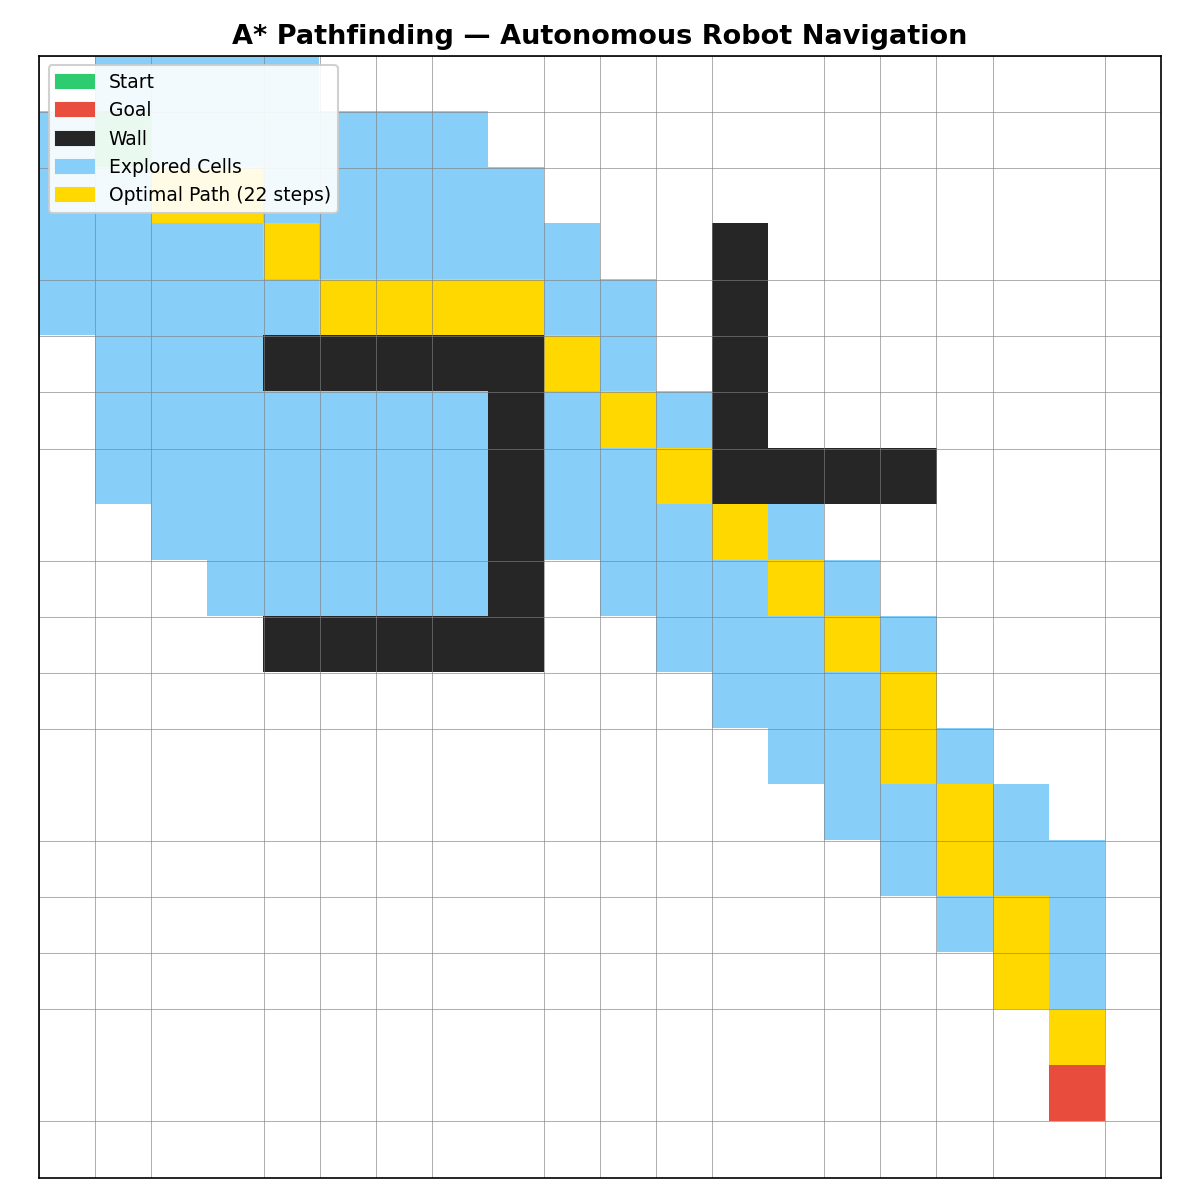
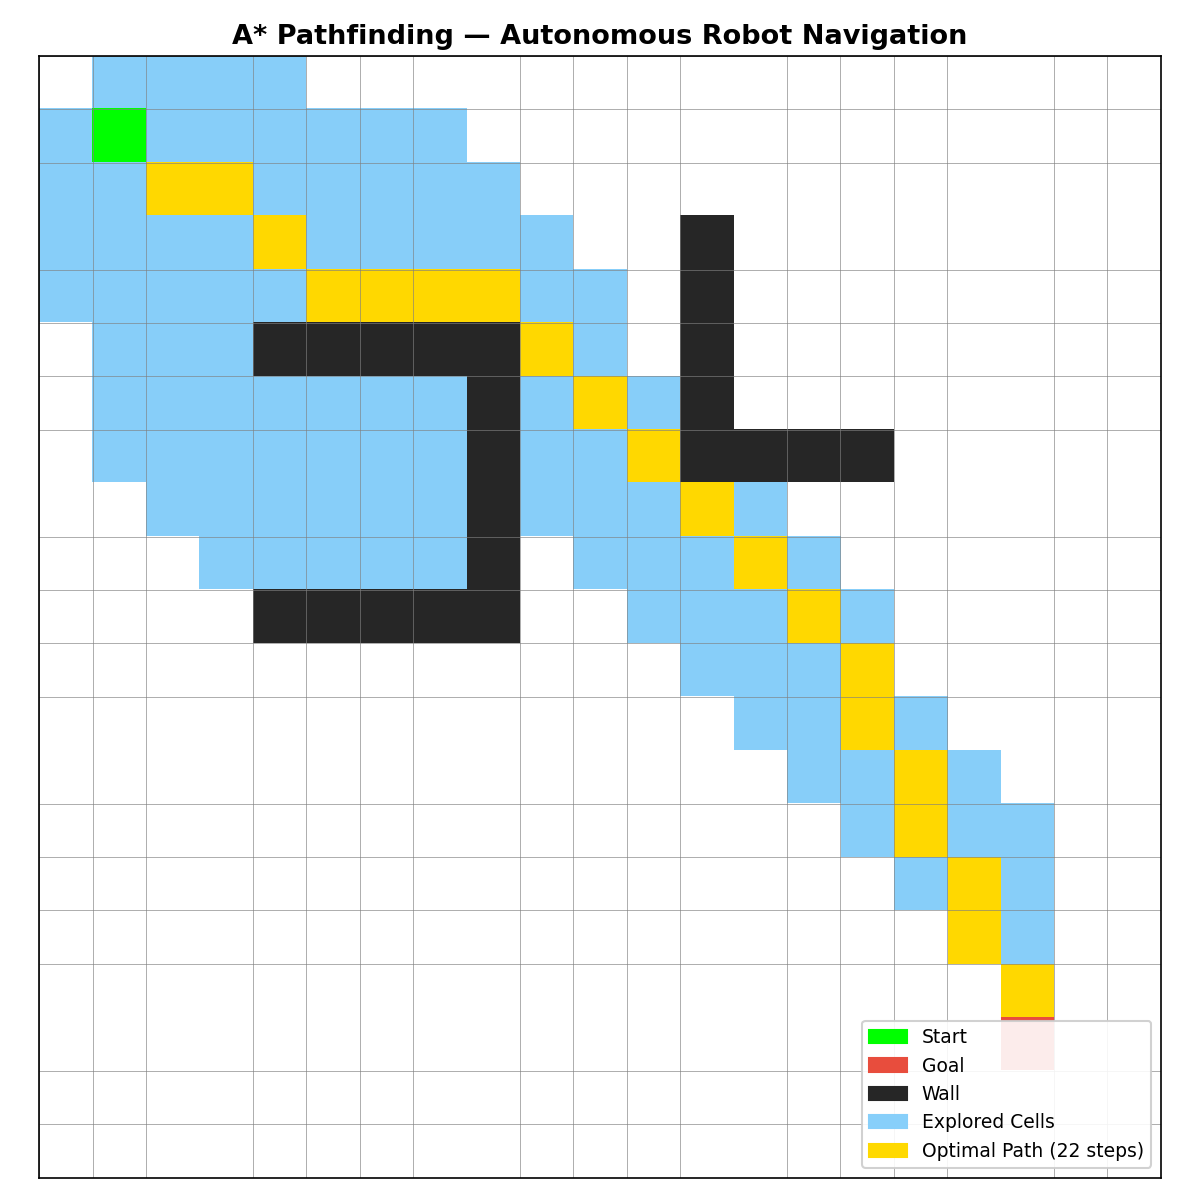
Fix legend position and grid lines

diff --git a/astar.py b/astar.py
@@ -105,7 +105,7 @@ def visualize(grid, path, visited, start, goal):
     BLACK  = [0.15, 0.15, 0.15]  # wall
     BLUE   = [0.53, 0.81, 0.98]  # explored
     YELLOW = [1.00, 0.85, 0.00]  # path
-    GREEN  = [0.18, 0.80, 0.44]  # start
+    GREEN  = [0.0, 1.0, 0.0]  # start
     RED    = [0.91, 0.30, 0.24]  # goal
 
     for r in range(grid.shape[0]):
@@ -131,8 +131,8 @@ def visualize(grid, path, visited, start, goal):
     fig, ax = plt.subplots(figsize=(8, 8))
     ax.imshow(visual, origin='upper')
     ax.set_title("A* Pathfinding — Autonomous Robot Navigation", fontsize=13, fontweight='bold')
-    ax.set_xticks(np.arange(-0.5, GRID_COLS, 1), minor=True)
-    ax.set_yticks(np.arange(-0.5, GRID_ROWS, 1), minor=True)
+    ax.set_xticks(np.arange(-0.5, GRID_COLS + 1, 1), minor=True)
+    ax.set_yticks(np.arange(-0.5, GRID_ROWS + 1, 1), minor=True)
     ax.grid(which='minor', color='gray', linewidth=0.3)
     ax.tick_params(which='both', bottom=False, left=False,
                    labelbottom=False, labelleft=False)
@@ -145,7 +145,7 @@ def visualize(grid, path, visited, start, goal):
         mpatches.Patch(color=BLUE,   label='Explored Cells'),
         mpatches.Patch(color=YELLOW, label=f'Optimal Path ({len(path)} steps)'),
     ]
-    ax.legend(handles=legend, loc='upper left',
+    ax.legend(handles=legend, loc='lower right',
               fontsize=9, framealpha=0.9)
 
     plt.tight_layout()
